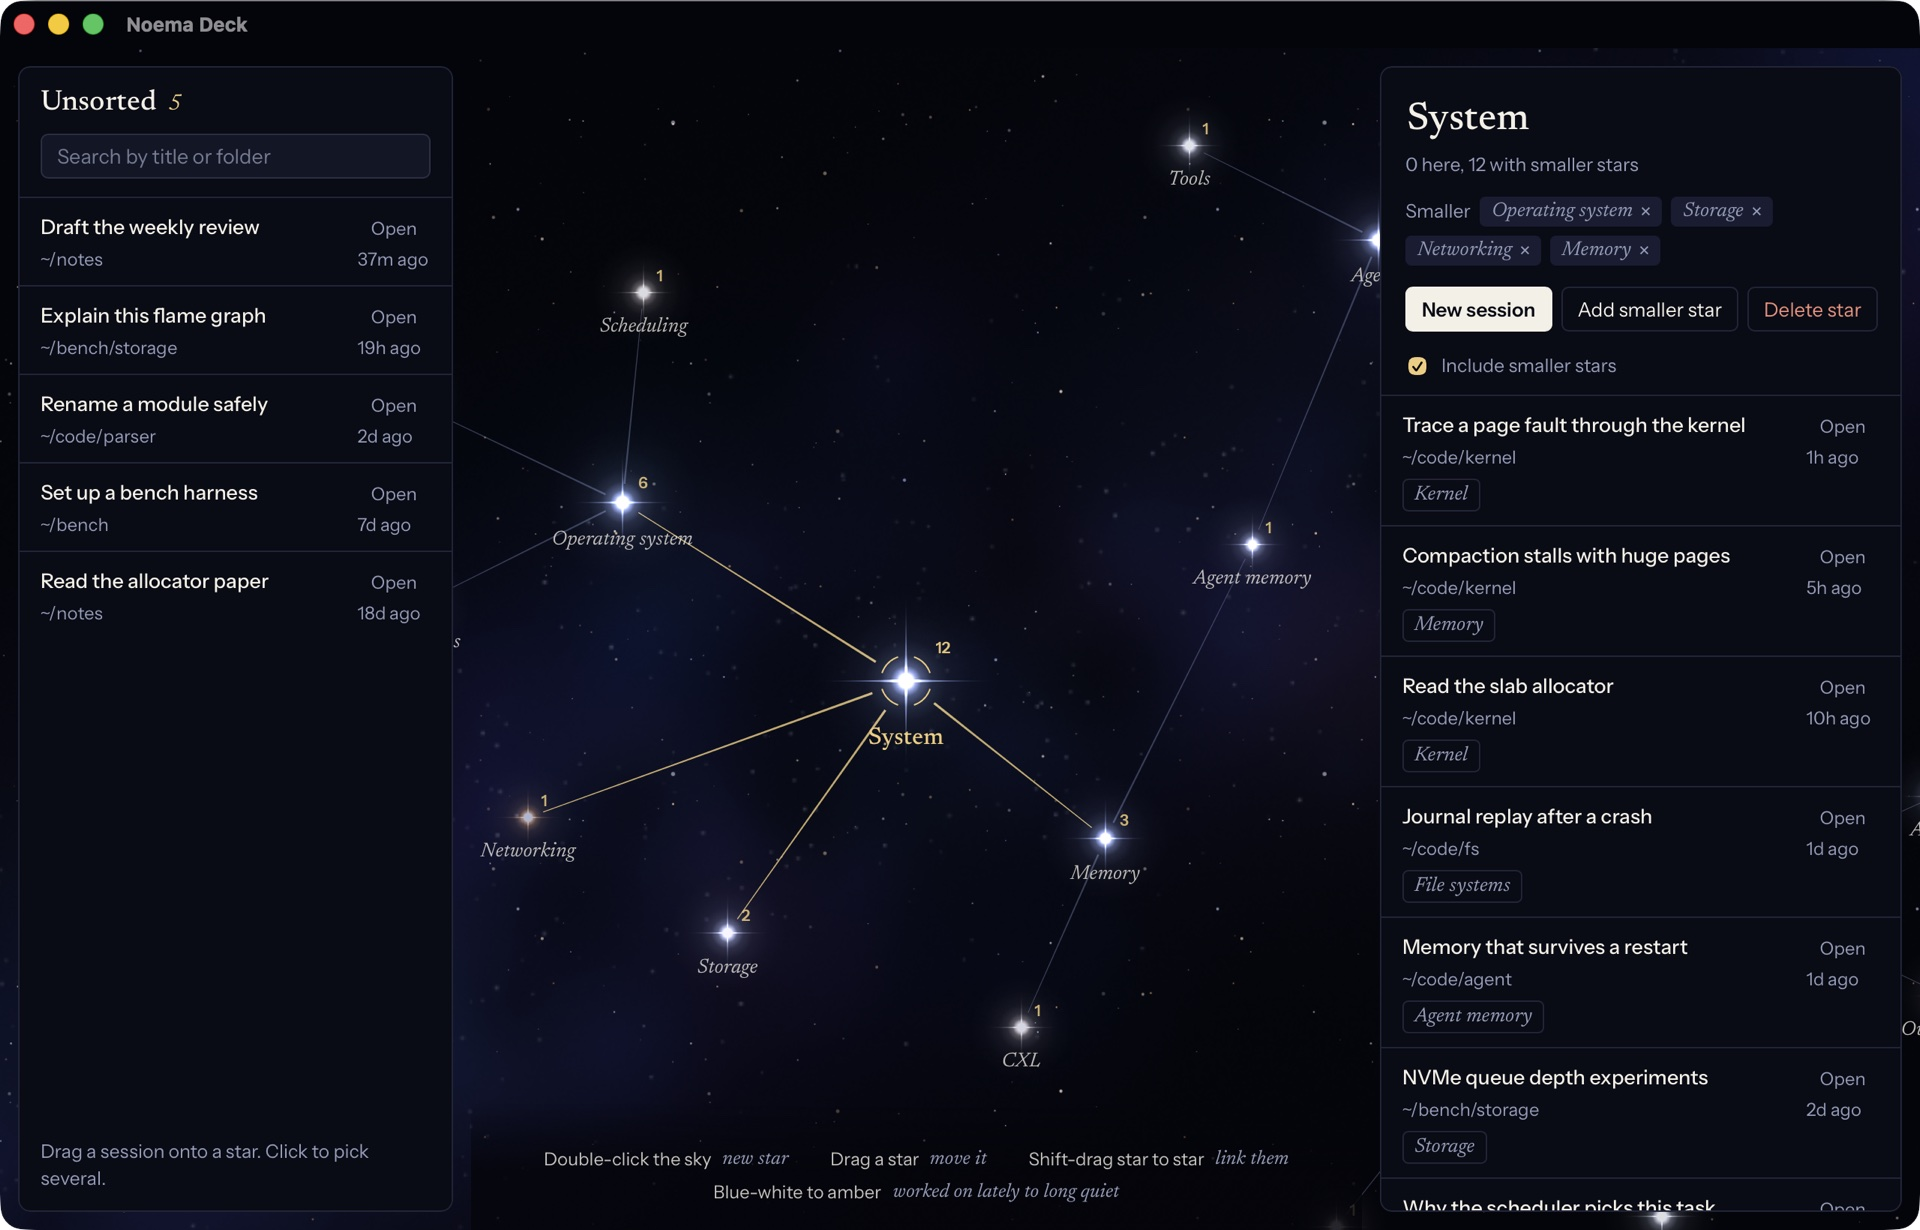
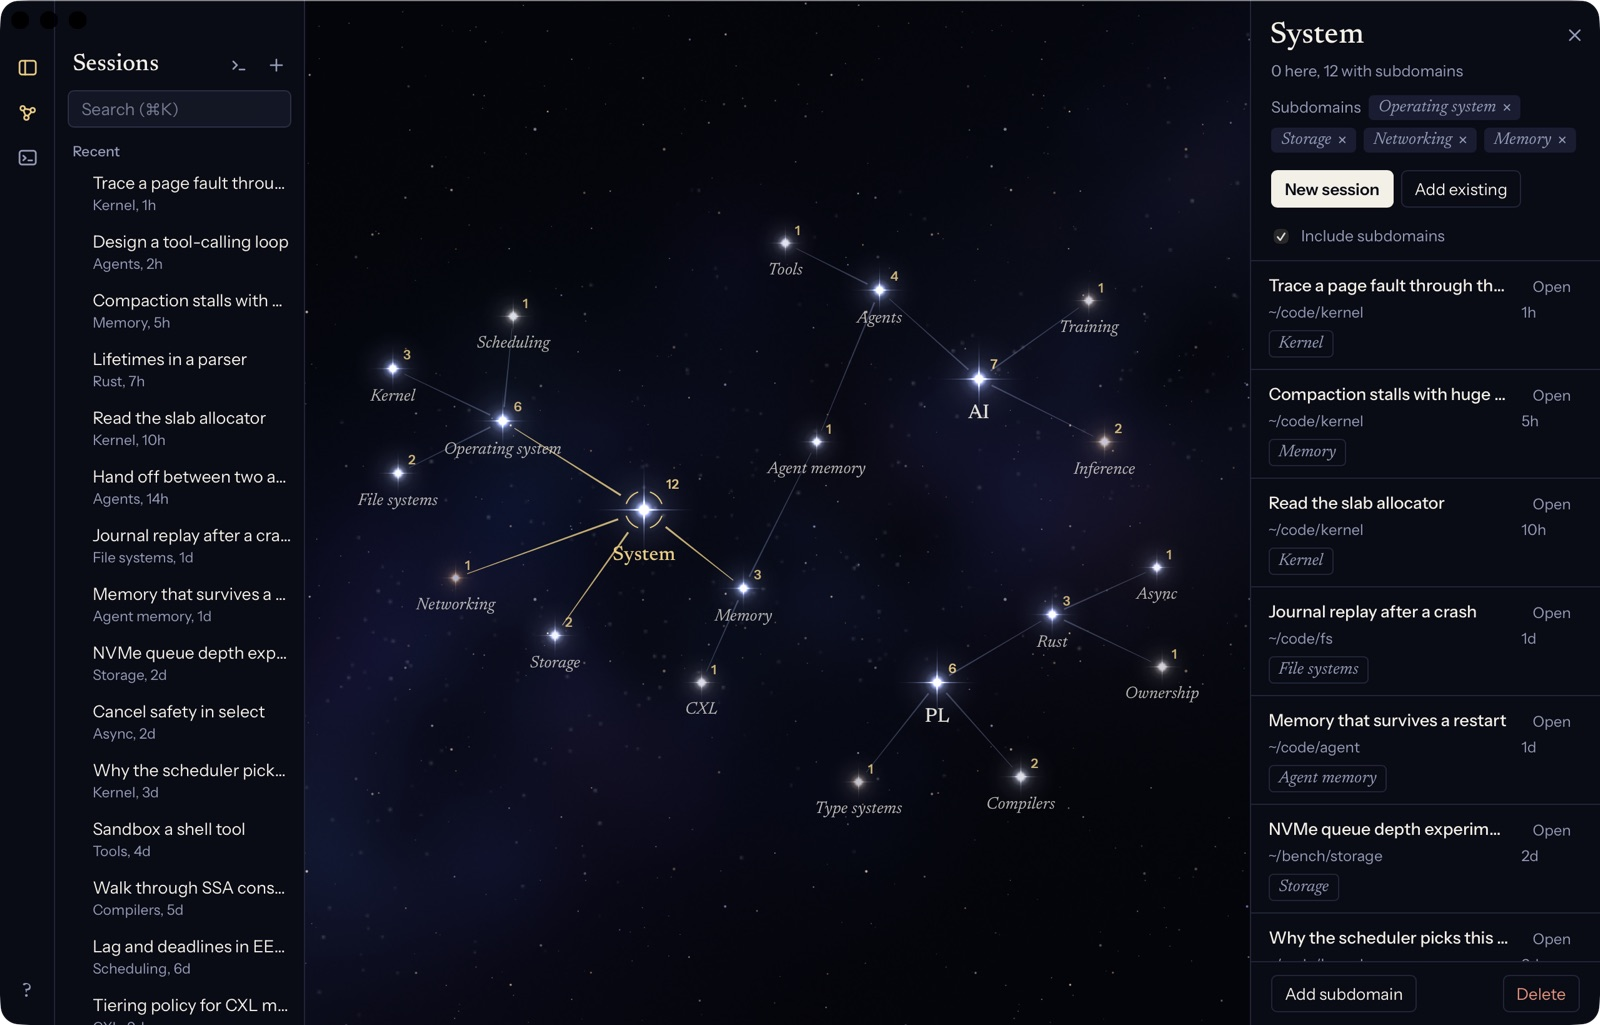
Describe domains and the new window in the documents

diff --git a/docs/design.md b/docs/design.md
@@ -1,52 +1,62 @@
 # Design
 
-Deck arranges Claude Code sessions on a universe of topic stars, and opens them in shell panes. [Architecture](architecture.md) says how it is built.
+Deck organises Claude Code sessions by domain and runs them in terminal panes. [Architecture](architecture.md) says how it is built.
 
 ## Model
 
-Deck stores three kinds of record. Sessions stay with the agent that created them, and Deck keeps no copy.
-
 | Record | Content |
 | --- | --- |
-| Star | A stable ID, a name and a position on the map. |
-| Link | A larger star and a smaller star. |
-| Placement | A star and a session key: the agent's name and the session's own ID. |
+| Domain | A stable ID, a name and a position on the map. |
+| Link | A parent domain and a subdomain. |
+| Assignment | A domain and a session key: the agent's name and the session's own ID. |
 
-- **Top stars.** A star with no larger star is a top star. There is no centre: a universe has a few, such as System, AI and PL.
-- **Links.** Every link has a larger and a smaller end; equal stars are never linked. A star may have several larger stars. A link that would place a star under itself is refused.
-- **Placements.** A session may sit on several stars. A session on no star is unsorted.
-- **Counts.** A star counts the distinct sessions on it and on every star beneath it.
-- **Deleting a star.** Its links and placements go with it. A smaller star left without a larger star moves up to the deleted star's larger stars, or becomes a top star. Sessions are never deleted.
-- **Missing sessions.** A placed session the agent no longer lists is marked missing, with an offer to remove the placement.
+- **Sessions** stay with the agent. Deck keeps no copy, and shows a session only once it is assigned.
+- **Root domains** have no parent. There is no single root.
+- **Links** never form a loop. A domain may have several parents.
+- **Assignments.** A session may belong to several domains.
+- **Counts.** A domain counts the distinct sessions in it and in its subdomains.
+- **Deleting a domain** removes its links and assignments. A subdomain left without a parent moves up to the deleted domain's parents. Sessions are never deleted.
+- **Missing sessions.** An assigned session the agent no longer lists is marked missing and can be removed.
 
-## Universe
+## Window
 
-The map is a night sky, with pan and zoom. It starts empty.
+The map or the terminal fills the window. A rail on the left switches between them.
 
-- **Stars.** A star is drawn as light: a white core, a bloom and four thin spikes. Its count sets its size. Its latest session sets its colour, from blue-white today to dim amber after three months of quiet.
-- **Names.** A name keeps one size at every zoom. Where two would overlap, the top star's or the fuller star's is shown.
-- **Focus.** Selecting a star centres it, highlights its links and opens its sessions.
-- **Editing.** Add a top star in empty space or a smaller star under a star. Rename, move, link by dragging from a larger star to a smaller one, unlink and delete.
-- **Import.** A folder's path given in place of a name adds that folder as a star, with the folders inside it as smaller stars, two levels deep.
-- **Motion.** A focus glides, a zoom eases and a pan coasts. With reduced motion set on the system, each is a jump.
+| Part | Content |
+| --- | --- |
+| Map | Domains drawn as stars on a night sky, with pan and zoom. Size follows the session count. Colour follows recency, from blue-white to amber over three months. |
+| Domain panel | The selected domain: name, parents, subdomains and sessions. |
+| Session list | Open panes with their state, then recent assigned sessions. Search covers every assigned session. |
+| Terminal | One pane, or two side by side or stacked. Other open panes keep running out of sight. |
+
+- **Resizing.** The session list, the domain panel and the divider between two panes drag by their edges. The list can be hidden. Sizes are remembered.
+- **Title bar.** On macOS the interface draws under the title bar, and its top edge drags and zooms the window.
+
+## Map
+
+- **Editing.** Add, rename, move, link, unlink and delete domains.
+- **Import.** A folder path given as a name adds the folder and two levels inside it as domains.
+- **Reassigning.** A session dragged from the panel onto another domain is assigned there too.
 
 ## Sessions
 
-- **Star panel.** The focused star's sessions, most recent first, optionally with those of smaller stars. Open a session or remove it from the star.
-- **Unsorted tray.** Every session on no star. Search by title or folder, then drag sessions onto a star.
-- **New session.** From a star, choose a folder. Deck starts Claude Code with a session ID it chose and places the session on that star. Claude Code stores a session at its first prompt, so one closed before that leaves the star.
+- **New session.** Choose a domain and a folder. The session is assigned at once. Claude Code stores a session at its first prompt, so one closed before that is dropped.
+- **Add existing.** A picker over the agent's whole history assigns past sessions to the selected domain.
+- **State.** An open pane is active when it wrote output in the last three seconds, and quiet otherwise.
 
-## Shell
+## Terminal
 
-Deck has no chat interface. Opening a session opens a shell pane inside Deck's window that runs Claude Code in the session's folder, with the environment of the user's login shell.
-
-- Two panes can sit side by side, and the map stays one key away.
-- Closing a pane stops the Claude Code process. The session remains and can be reopened.
-- Deck does not guard against a session being open in another client. The agent handles that.
+- **Panes.** A pane runs Claude Code on a session, or the user's login shell. Deck has no chat interface.
+- **Split.** Splitting right or down opens a shell beside the current pane, in the same folder. A session can also open beside another.
+- **Closing.** A pane closes when its process exits, and closing a pane stops its process. One that fails within two seconds stays, so its output can be read. The session remains and can be reopened.
+- **Theme.** Deck's terminal is dark. A light Claude Code theme is swapped for its dark counterpart in a pane, for that run only.
+- **Icons.** A bundled Nerd Fonts symbol font draws prompt icons the terminal font lacks.
+- **Other clients.** Deck does not guard against a session being open elsewhere. The agent handles that.
 
 ## Later
 
 - **More agents.** Codex and OpenCode.
-- **Star prompts.** A prompt per star, inherited by sessions started on the stars beneath it.
-- **Skills, system load and memory.** Browse agent skills, watch host load, and review Noema memory.
-- **Session links.** Fork, reference and handoff relations between sessions.
+- **Settings.** Terminal font and theme.
+- **Domain prompts.** A prompt per domain, inherited by sessions started in its subdomains.
+- **Skills, system load and memory.**
+- **Session links.** Fork, reference and handoff relations.

diff --git a/docs/architecture.md b/docs/architecture.md
@@ -6,7 +6,7 @@ How Deck is built. [Design](design.md) says what it does.
 
 ```mermaid
 flowchart LR
-    UI["ui/: map and shell panes"] -->|map, pane| APP["noema-deck: desktop window"]
+    UI["ui/: map, lists and terminals"] -->|map, pane| APP["noema-deck: desktop window"]
     UI -->|/map, /pane| CLI["noema-deck-cli: commands and local server"]
     APP --> CLI
     APP --> CORE["noema-deck-core"]
@@ -19,46 +19,51 @@ flowchart LR
 | Part | Role |
 | --- | --- |
 | `noema-deck-core` | Everything Deck knows and does. No window, no arguments, no printing. |
-| `noema-deck-cli` | The commands, what they print, and a local server that gives the map to a browser. |
+| `noema-deck-cli` | The commands, what they print, and a local server that gives the interface to a browser. |
 | `noema-deck` | The Tauri window. Given a command, it hands it to the CLI library, so one program is both the app and the command-line tool. |
-| `ui/` | Plain HTML, CSS and JavaScript with no build step. `app.js` sends requests and fills the panels, and `sky.js` paints the map. |
+| `ui/` | Plain HTML, CSS and JavaScript with no build step. `app.js` sends requests and fills the lists, and `sky.js` paints the map. |
 
 ## Core modules
 
 | Module | Holds |
 | --- | --- |
 | `agent`, `agent::claude` | The agents, and the Claude Code adapter: list sessions, and the commands that open or start one. |
-| `session`, `star` | The things on the map. |
-| `store` | The SQLite file: tables and upgrades, stars, placements, settings. |
-| `import` | A folder tree turned into stars laid out on rings. |
-| `universe` | The map as a whole. One `Request` goes in and one `Snapshot` comes out. |
-| `pane` | Shell panes on pseudoterminals. |
-| `deck` | One running Deck: the universe behind a lock, and the panes. |
+| `session`, `domain` | The records Deck works with. |
+| `store` | The SQLite file: tables and upgrades, domains, assignments, settings. |
+| `import` | A folder tree turned into domains laid out on rings. |
+| `map` | Domains, links and assignments joined with the agent's sessions. One `Request` goes in and one `Snapshot` comes out. |
+| `pane` | Terminal panes on pseudoterminals. |
+| `deck` | One running Deck: the map behind a lock, and the panes. |
 
 ## One request, one snapshot
 
-The interface never changes its own picture of the map. It sends a request and draws the snapshot that comes back.
+The interface keeps no state of its own about domains or sessions. It sends a request and draws the snapshot that comes back.
 
 ```mermaid
 sequenceDiagram
     participant UI as Interface
     participant D as Deck
-    participant U as Universe
+    participant M as Map
     UI->>D: map { command: "link", args }
-    D->>U: handle(request)
-    U->>U: change the store
-    U-->>UI: Snapshot: stars, links, sessions, missing
+    D->>M: handle(request)
+    M->>M: change the store
+    M-->>UI: Snapshot: domains, links, sessions, missing
 ```
 
-Every rule lives in the core: a refused link, a star's count, which sessions are missing. The window and the server pass the same two routes through unchanged, `map` and `pane`, so the interface behaves the same in both. A snapshot equal to the one on screen is not drawn again.
+Every rule lives in the core: a refused link, a domain's count, which sessions are missing. The window and the server pass the same two routes through unchanged, `map` and `pane`, so the interface behaves the same in both. A snapshot equal to the one on screen is not drawn again.
 
-## Map
+## Interface
+
+- **No state of its own.** Domains and sessions come only from snapshots. The page keeps layout choices alone, such as panel widths, in its local storage.
+- **Title bar.** The window's title bar is an overlay. The page marks the regions that drag and zoom the window, and one capability file grants it those two calls.
+
+## Map drawing
 
 The map is one canvas, because a pan or a zoom repaints every star on every frame.
 
 - **Painted once, drawn many times.** Each kind and colour of star is painted once and then copied. The gas is worked out once, and the far stars are three repeating tiles.
 - **A frame only when something changed.** A still map costs nothing.
-- **Hit testing is arithmetic.** The star under the pointer is the nearest one within reach. No element stands for a star.
+- **Hit testing is arithmetic.** The domain under the pointer is the nearest star within reach. No element stands for one.
 
 ## Store
 
@@ -66,20 +71,23 @@ One SQLite file in the per-user application data directory. Nothing from a sessi
 
 | Table | Columns |
 | --- | --- |
-| `star` | `id`, `name`, `x`, `y` |
-| `link` | `larger`, `smaller` |
-| `placement` | `star`, `agent`, `session` |
+| `domain` | `id`, `name`, `x`, `y` |
+| `link` | `parent`, `child` |
+| `assignment` | `domain`, `agent`, `session` |
 | `setting` | `name`, `value` |
 
 `PRAGMA user_version` counts the upgrade steps a store has had. Opening runs the ones it lacks, and refuses a store from a newer Deck.
 
 ## Panes
 
-A pane runs one command on a pseudoterminal.
+A pane runs one command on a pseudoterminal: Claude Code on a session, or the user's login shell.
 
-- **Two threads per pane.** One copies what the process writes. The other waits for the process to end, because a terminal can stay open after its process has gone.
+- **Two threads per pane.** One copies what the process writes. The other waits for the process to end.
+- **Ending.** A pane ends when its terminal closes, or shortly after its process exits if something it started holds the terminal open.
+- **Many panes.** Any number can run. The interface shows one or two and keeps reading the rest, which is how it knows a session is active.
 - **Reading waits.** The interface asks for output and the answer comes when there is some, or after twenty seconds.
-- **Environment.** A desktop app starts without a terminal's `PATH`. Deck asks the login shell for its environment once and runs every pane with it.
+- **Environment.** A desktop app starts without a terminal's `PATH`. Deck asks the login shell for its environment once, at startup, and runs every pane with it.
+- **Drawing.** Each terminal is xterm.js drawing through WebGL, and through plain elements when WebGL is unavailable.
 
 ## Local server
 
@@ -95,5 +103,6 @@ A pane runs one command on a pseudoterminal.
 | Last activity | File modification time |
 | Open | `claude --resume <id>` in the session's folder |
 | Start | `claude --session-id <uuid>` with an ID Deck chooses |
+| Theme | In a pane, `--settings` swaps a light Claude Code theme for its dark counterpart, for that run only |
 
 Read from Claude Code 2.1.330 on macOS. The transcript format is undocumented, so Deck reads only these fields, and reads a transcript again only when its time or length has changed.

diff --git a/README.md b/README.md
@@ -4,56 +4,56 @@
 
 <h1 align="center">Noema Deck</h1>
 
-<p align="center">A desktop workbench that arranges your Claude Code sessions on a universe of topic stars.</p>
+<p align="center">A desktop workbench that organises Claude Code sessions by domain.</p>
 
-![The map with the System star focused: its smaller stars linked to it in gold, its sessions in a panel on the right and unsorted sessions on the left](docs/images/universe.jpg)
+![The map of domains, with the session list on the left and the System domain's panel on the right](docs/images/map.jpg)
 
 Deck is the first part of [Noema Kit](https://github.com/noema-kit), a set of tools for building an AI-native personal knowledge system.
 
-## Design targets
+## Features
 
-- **Sessions by topic.** A star is a topic, smaller stars hang under larger ones, and each star holds its sessions. A star can hang under several stars, and a session can sit on several.
-- **Original sessions.** Deck manages the sessions the agent itself creates. It records only where a session sits and keeps no copy.
-- **The agent's own interface.** Opening a session opens a shell pane that runs the agent. Deck has no chat interface.
-- **Claude Code first.** Codex and OpenCode follow.
-- **Room to grow.** Stars later carry prompts, skills, system load and memory.
+- **Domains.** Group sessions by domain on a map. A domain can have subdomains and several parents, and a session can belong to several domains.
+- **Original sessions.** Deck manages the sessions Claude Code creates. It stores only assignments and keeps no copy.
+- **Opt-in.** A session appears once it is assigned to a domain. Start one in a domain, or add past ones from the history.
+- **Terminal.** A session opens in a terminal pane that runs Claude Code. Panes split right or down, and a pane can run a plain shell.
+- **Command line.** The same program lists, opens and assigns sessions from a shell.
 
 ## Run
 
-Requires Rust 1.95 and Claude Code sessions on this machine.
+Requires Rust 1.95 and Claude Code.
 
 ```sh
 cargo run -p noema-deck         # the desktop window
-cargo run -- serve              # the same map at http://127.0.0.1:4270
+cargo run -- serve              # the same interface at http://127.0.0.1:4270
+cargo run -- --help             # the commands
 ```
 
-| On the map | Action |
+## Use
+
+| Action | How |
 | --- | --- |
-| Double-click empty space | Add a top star, or import a folder's tree by typing its path |
-| Click a star | Focus it and list its sessions |
-| Drag a star | Move it |
-| Shift-drag from a larger star to a smaller one | Link them |
-| Drag a session onto a star | Place it there |
-| **Open** on a session | Run it in a shell pane; two fit side by side |
-| **New session** on a focused star | Start a session already placed on that star |
-| ⌘1 and ⌘2, or Ctrl+1 and Ctrl+2 | Switch between the map and the shell panes |
+| Add a domain | Double-click the map. A folder path imports its tree. |
+| Move or link domains | Drag one. Shift-drag from a parent to a subdomain. |
+| Start a session | **New session** in the domain panel, or `+` in the session list |
+| Add past sessions | **Add existing** in the domain panel |
+| Open a session | Click it. The split button on its row opens it beside the current pane. |
+| Open a shell | `>_` in the session list, or split a pane |
+| Resize | Drag the edge of the session list or the domain panel, or the divider between panes |
 
-A star's colour tells how lately it was worked on: blue-white today, cooling to amber over three months.
+| Key | Action |
+| --- | --- |
+| ⌘1, ⌘2 | Map, terminal |
+| ⌘B, ⌘K | Session list, search |
+| ⌘D, ⇧⌘D | Split right, split down |
 
-The same program is a command-line tool when given a command, and `noema-deck --help` lists them all:
-
-```sh
-noema-deck star add "Operating system" --under System
-noema-deck place <session-id-prefix> "Operating system"
-noema-deck open <session-id-prefix>
-```
+Off macOS, the number keys take Ctrl and the letter keys take Ctrl+Shift.
 
 ## Documents
 
 | Document | Content |
 | --- | --- |
-| [Design](docs/design.md) | What Deck is and how it behaves. |
-| [Architecture](docs/architecture.md) | The crates, the core's modules and how a request flows. |
+| [Design](docs/design.md) | What Deck does. |
+| [Architecture](docs/architecture.md) | How it is built. |
 | [Development](docs/development.md) | Running, checking and conventions. |
 
 ## Licence

diff --git a/docs/development.md b/docs/development.md
@@ -27,7 +27,7 @@ cargo test --workspace
 scripts/selftest.sh
 ```
 
-The self-test opens the real window and drives the map, a pane, a new session and an import from inside the page. It uses a fixture store, fixture sessions and a stand-in for Claude Code, so it reads and changes nothing of yours.
+The self-test opens the real window and drives the map, the session list, terminal panes, a new session and an import from inside the page. It uses a fixture store, fixture sessions and a stand-in for Claude Code, so it reads and changes nothing of yours.
 
 ## Conventions
 
@@ -40,6 +40,6 @@ The self-test opens the real window and drives the map, a pane, a new session an
 
 | Files | Note |
 | --- | --- |
-| `ui/vendor/xterm*` | xterm.js. [Source and licence](../ui/vendor/xterm.SOURCE.md) |
-| `ui/vendor/fonts/` | Newsreader and Instrument Sans. [Source and licence](../ui/vendor/fonts/SOURCE.md) |
+| `ui/vendor/xterm*` | xterm.js with its fit and WebGL add-ons. [Source and licence](../ui/vendor/xterm.SOURCE.md) |
+| `ui/vendor/fonts/` | Newsreader, Instrument Sans and the Nerd Fonts symbols. [Source and licence](../ui/vendor/fonts/SOURCE.md) |
 | `crates/noema-deck/icons/*.png`, `icon.icns` | Rendered from `icon.svg` by `scripts/icons.sh`, which needs `rsvg-convert`. |
